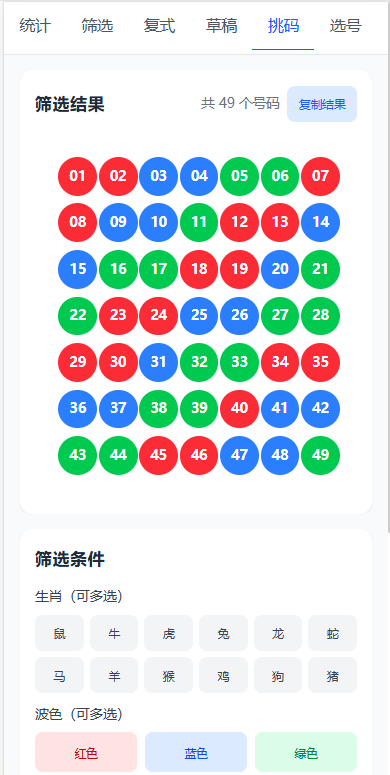
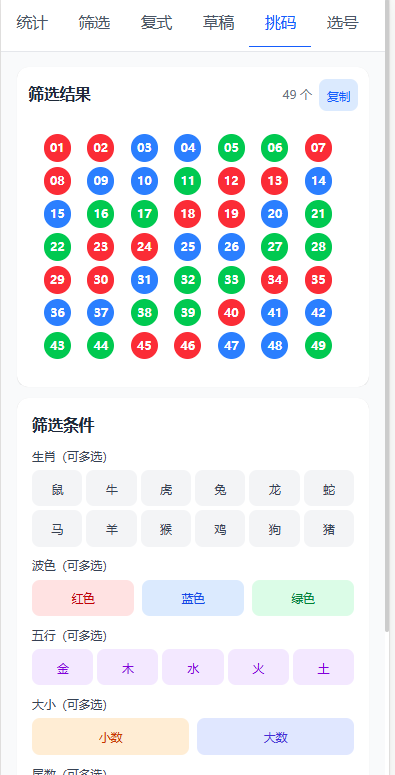
fix: 修复挑码模块无筛选条件时不显示筛选结果区域

diff --git a/src/pages/index/index.tsx b/src/pages/index/index.tsx
@@ -399,34 +399,27 @@ const IndexPage = () => {
         {/* 挑码区 */}
         {activeTab === 'pick' && (
           <View className="space-y-3">
-            {/* 筛选结果区 - 占30%空间 */}
-            <View className="bg-white rounded-xl p-3 shadow-sm">
-              <View className="flex flex-row justify-between items-center mb-2">
-                <Text className="block text-base font-semibold text-gray-800">
-                  筛选结果
-                </Text>
-                <View className="flex flex-row items-center gap-2">
-                  {filteredNumbers.length > 0 && (
+            {/* 筛选结果区 - 仅在有结果时显示 */}
+            {filteredNumbers.length > 0 && (
+              <View className="bg-white rounded-xl p-3 shadow-sm">
+                <View className="flex flex-row justify-between items-center mb-2">
+                  <Text className="block text-base font-semibold text-gray-800">
+                    筛选结果
+                  </Text>
+                  <View className="flex flex-row items-center gap-2">
                     <Text className="text-xs text-gray-500">
                       {filteredNumbers.length} 个
                     </Text>
-                  )}
-                  {filteredNumbers.length > 0 && (
                     <View
                       className="bg-blue-100 text-blue-600 rounded-lg px-2 py-1"
                       onClick={copyResults}
                     >
                       <Text className="text-xs font-medium">复制</Text>
                     </View>
-                  )}
+                  </View>
                 </View>
-              </View>
 
-              <View className={`rounded-lg p-4 min-h-[80px] flex items-center justify-center ${
-                filteredNumbers.length === 0 ? 'bg-gray-50' : 'bg-white'
-              }`}
-              >
-                {filteredNumbers.length > 0 ? (
+                <View className="rounded-lg p-4 min-h-[80px] bg-white">
                   <View className="grid grid-cols-7 gap-1.5 w-full">
                     {filteredNumbers.map(num => {
                       const attrs = getNumberAttributes(num)
@@ -440,9 +433,9 @@ const IndexPage = () => {
                       )
                     })}
                   </View>
-                ) : null}
+                </View>
               </View>
-            </View>
+            )}
 
             {/* 属性选择区 - 占70%空间 */}
             <View className="bg-white rounded-xl p-4 shadow-sm">
